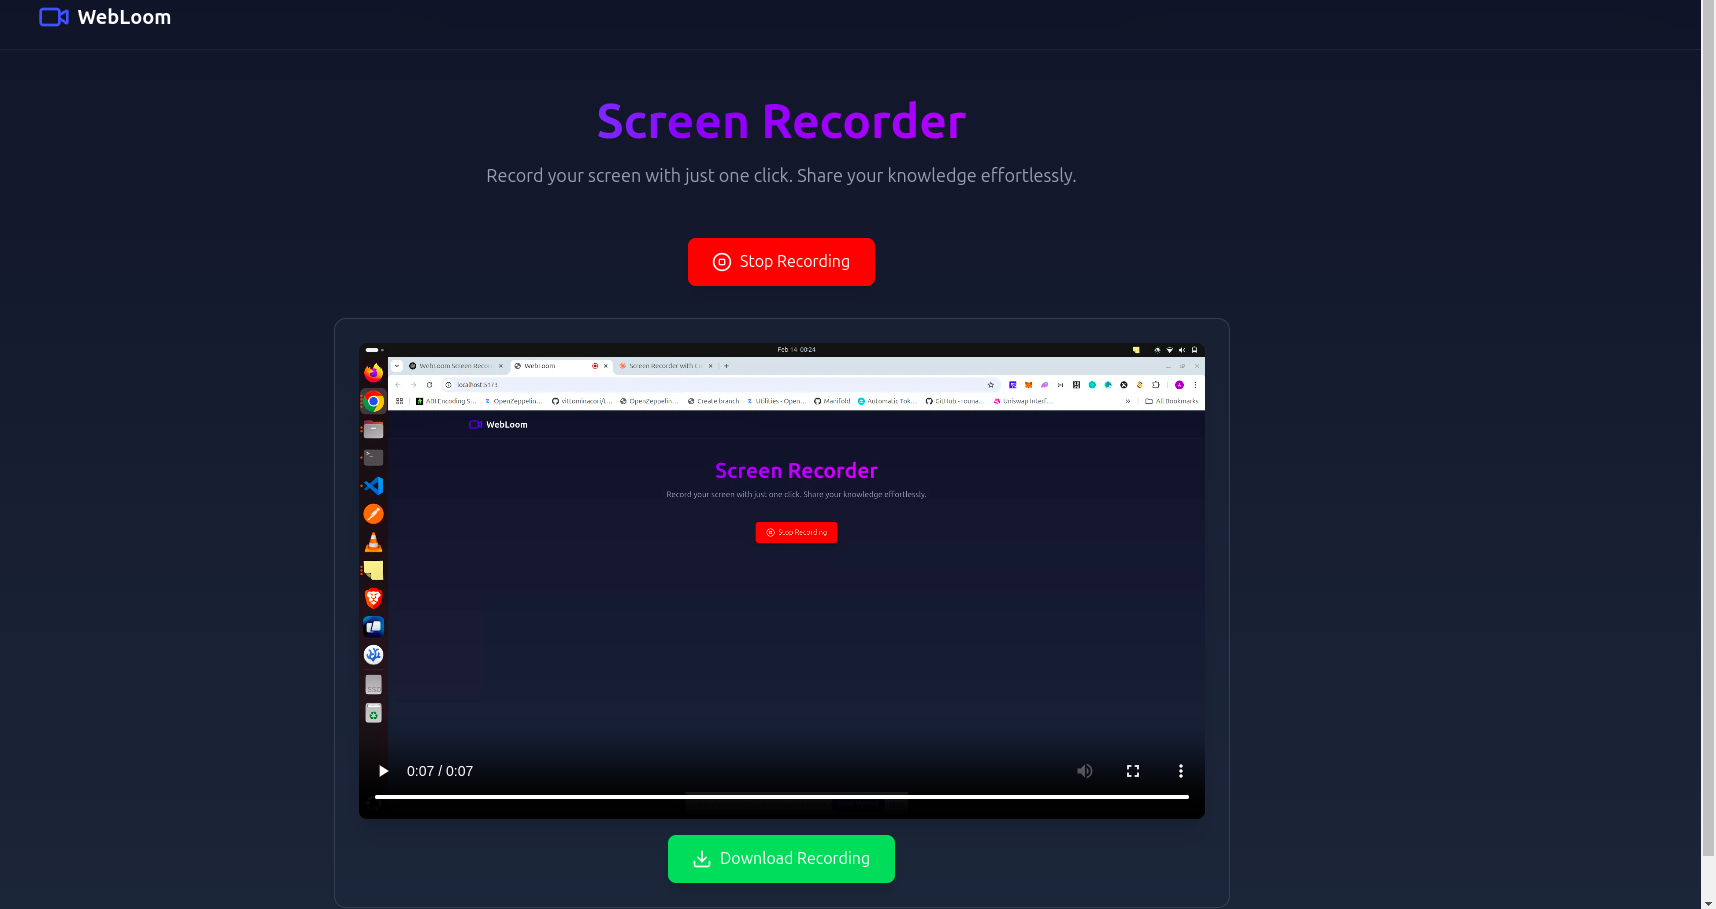
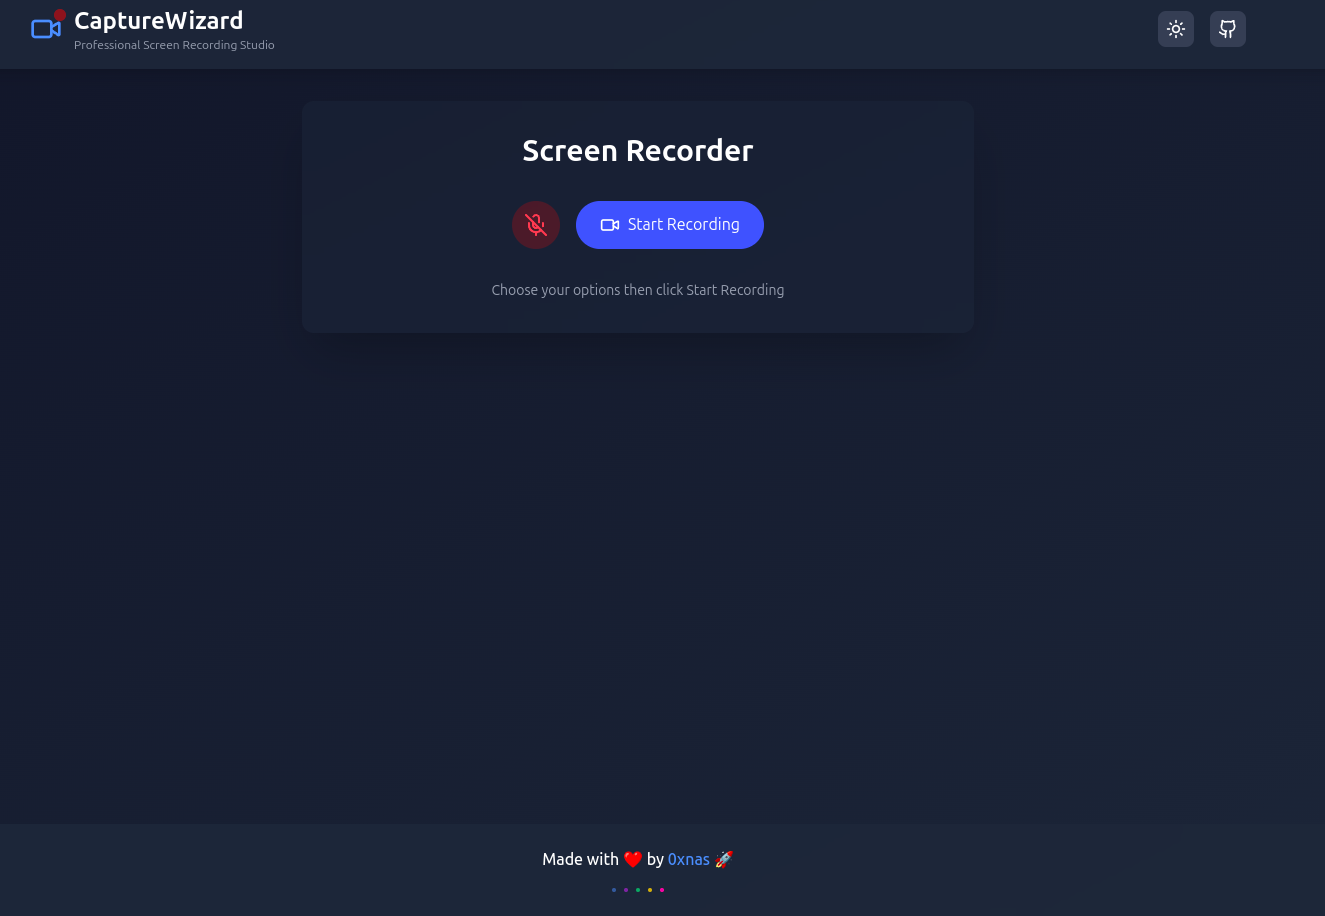
[update]: rebranded to CaptureWizard & refreshed demo link 🚀

diff --git a/README.md b/README.md
@@ -1,13 +1,13 @@
-# WebLoom - Screen Recording Web App
+# CaptureWizard - Screen Recording Web App
 
-![WebLoom](./public/banner.png)
+![CaptureWizard](./public/banner.png)
 
 ## 🚀 Overview
-WebLoom is a simple yet powerful screen recording web application built with **React** and **Tailwind CSS**. It allows users to record their screens and download the recordings directly without requiring any backend or cloud storage.
+CaptureWizard is a simple yet powerful screen recording web application built with **React** and **Tailwind CSS**. It allows users to record their screens and download the recordings directly without requiring any backend or cloud storage.
 
 ## ✨ Features
 - 🎥 **Record Screen** - Capture your screen with system audio
-- 📥 **Download Recording** - Save recordings as `.webm` files
+- 📅 **Download Recording** - Save recordings as `.webm` files
 - ⚡ **No Backend Required** - Works fully client-side
 - 🎨 **Clean UI** - Built with Tailwind CSS
 
@@ -16,11 +16,11 @@ WebLoom is a simple yet powerful screen recording web application built with **R
 - **Tailwind CSS** - Styling
 - **MediaRecorder API** - Screen recording
 
-## 📦 Installation
+## 📞 Installation
 ```sh
 # Clone the repository
-git clone https://github.com/iamnas/webloom.git
-cd webloom
+git clone https://github.com/iamnas/capturewizard.git
+cd capturewizard
 
 # Install dependencies
 pnpm install
@@ -29,22 +29,22 @@ pnpm install
 pnpm dev
 ```
 
-## 🎬 Usage
+## 🎮 Usage
 1. Click **Start Recording** and select the screen/tab to capture.
 2. Click **Stop Recording** to end the session.
 3. Preview your recording and **Download** it as a `.webm` file.
 
 ## 📸 Screenshots
 
-![WebLoom](./public/banner.png)
+![CaptureWizard](./public/banner.png)
 
 ## 🌍 Live Demo
-🔗 [WebLoom Demo](./public/recording.webm) 
+🔗 [CaptureWizard Demo](https://capturewizard.vercel.app/)
 
 ## 🤝 Contributing
 Contributions are welcome! Feel free to fork this repo, open issues, or submit pull requests.
 
-## 📜 License
+## 🐜 License
 MIT License © 2025 [Nas (0xnas)](https://github.com/iamnas)
 
 ---
